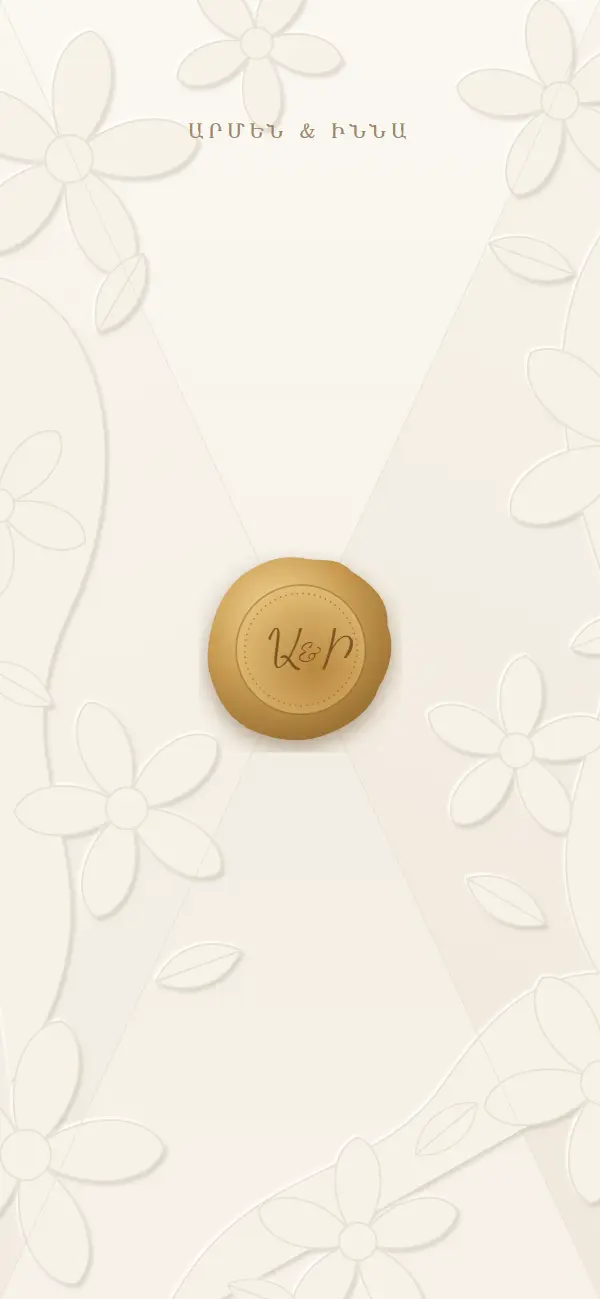
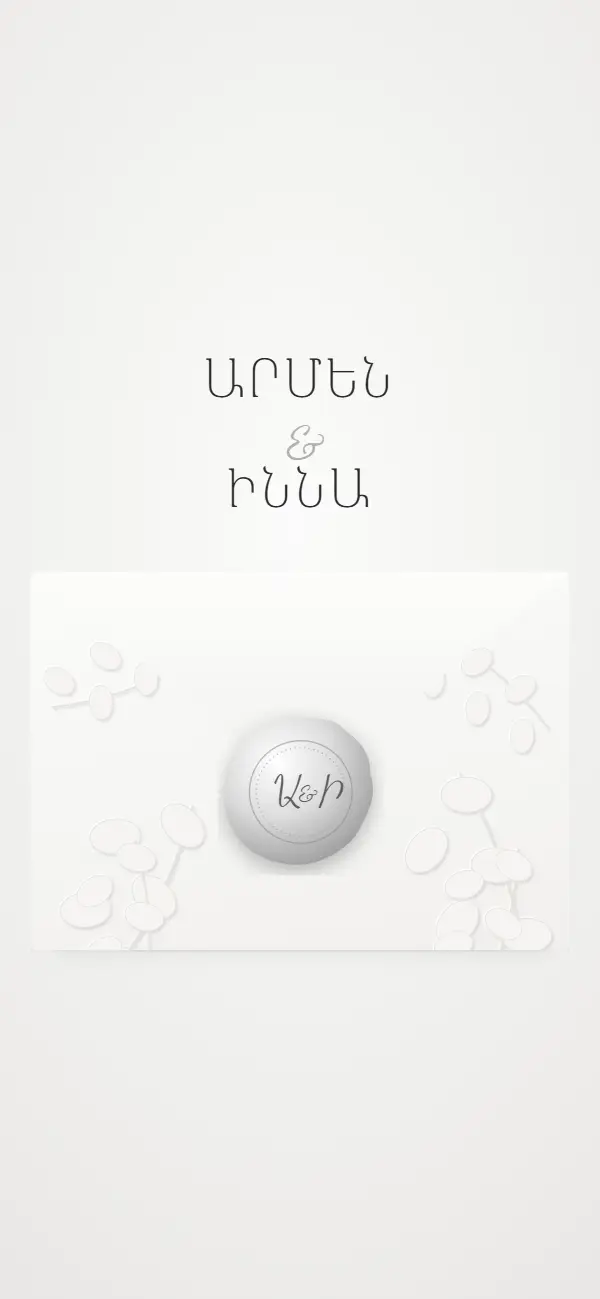
Elegance: its own classic envelope with silver seal

diff --git a/hravirir/invites/elegance/app.js b/hravirir/invites/elegance/app.js
@@ -11,7 +11,24 @@
       until: "Until the wedding", untilT: "there is very little", untilS: "time left", where: "Where?", at: "at", open: "Open map" }
   });
   function oval(src, cls) { return src ? '<div class="ov ' + (cls || "") + ' rv"><img src="' + esc(src) + '" alt="" loading="lazy"></div>' : ""; }
-  function env() { var n = K.names(); return P.wenv({ letters: [(n[0] || "").charAt(0), (n[1] || "").charAt(0)], hint: P.x("hint"), top: esc(n.join(" & ")) }); }
+  // դասական սպիտակ ծրար՝ էվկալիպտի դաջվածքով և արծաթափայլ կնիքով. կափարիչը բացվում է, բացիկը դուրս է գալիս
+  function euc(x, y, s, r) {
+    var p = '<g transform="translate(' + x + " " + y + ") rotate(" + r + ") scale(" + s + ')"><path class="st" d="M0 0C6 -14 10 -30 8 -50"/>';
+    for (var i = 0; i < 6; i++) { var yy = -6 - i * 8, sd = i % 2 ? 1 : -1; p += '<ellipse cx="' + (sd * 6 + i * .3).toFixed(1) + '" cy="' + yy + '" rx="5.2" ry="3.6" transform="rotate(' + (sd * 25) + " " + (sd * 6) + " " + yy + ')"/>'; }
+    return p + "</g>";
+  }
+  function env() {
+    var n = K.names(), L = [(n[0] || "").charAt(0), (n[1] || "").charAt(0)];
+    var art = '<svg class="ce-art" viewBox="0 0 100 100" preserveAspectRatio="xMidYMid slice" aria-hidden="true"><defs><filter id="ceE"><feDropShadow dx=".25" dy=".35" stdDeviation=".2" flood-color="#6b6b6b" flood-opacity=".25"/><feDropShadow dx="-.2" dy="-.2" stdDeviation=".15" flood-color="#fff" flood-opacity="1"/></filter></defs>' +
+      '<g filter="url(#ceE)" fill="#f5f4f1" stroke="#e4e2dd" stroke-width=".2">' + euc(8, 98, .9, 20) + euc(20, 100, .7, -10) + euc(92, 96, .9, -25) + euc(80, 100, .7, 8) + euc(4, 40, .6, 60) + euc(96, 44, .6, -60) + "</g></svg>";
+    var seal = '<svg class="ce-seal" viewBox="0 0 120 120" aria-hidden="true"><defs><radialGradient id="ceG" cx=".35" cy=".3" r=".85"><stop offset="0" stop-color="#ffffff"/><stop offset=".45" stop-color="#dcdcdc"/><stop offset=".8" stop-color="#a9a9a9"/><stop offset="1" stop-color="#8c8c8c"/></radialGradient></defs>' +
+      '<path d="M60 6C72 8 82 5 91 15C102 22 111 33 110 47C115 59 110 73 104 83C99 96 87 104 75 109C62 114 49 113 37 109C24 104 14 95 9 82C3 69 6 54 9 42C14 28 23 17 36 11C44 7 52 5 60 6Z" fill="url(#ceG)" filter="drop-shadow(0 5px 7px rgba(60,60,60,.35))"/>' +
+      '<circle cx="60" cy="60" r="37" fill="none" stroke="#8a8a8a" stroke-opacity=".55"/><circle cx="60" cy="60" r="32" fill="none" stroke="#8a8a8a" stroke-opacity=".45" stroke-dasharray="1 2.4"/>' +
+      '<text x="60" y="70" text-anchor="middle" font-size="31" fill="#5c5c5c" style="font-family:var(--script)">' + esc(L[0]) + '<tspan font-size="17" dx="1" dy="-3">&amp;</tspan><tspan dx="1" dy="3">' + esc(L[1]) + "</tspan></text></svg>";
+    return '<div class="env cenv" id="env" role="button" aria-label="' + esc(P.x("hint")) + '"><div class="ce-top"><span>' + esc(n[0] || "") + '</span><i>&amp;</i><span>' + esc(n[1] || "") + '</span></div><div class="ce-box"><div class="ce-back"></div>' +
+      '<div class="ce-card"><div class="ce-k">' + esc(P.x("inv1")) + '</div><div class="ce-n">' + esc(n[0] || "") + '<i>&amp;</i>' + esc(n[1] || "") + '</div><div class="ce-d">' + P.dots(" · ") + "</div></div>" +
+      '<div class="ce-pocket">' + art + '</div><div class="ce-flap"></div><div class="ce-sw">' + seal + "</div></div>" + (K.PREVIEW ? "" : '<div class="hint">' + esc(P.x("hint")) + "</div>") + "</div>";
+  }
   function main() {
     var n = K.names(), d = K.date, g = C.gallery || [];
     var yy = String(d.getFullYear()).slice(2);
@@ -34,5 +51,5 @@
       P.sec("rsv", P.rsvp("cap")) +
       P.sec("fin", '<div class="scr rv">' + esc(P.x("fin")) + '</div><div class="fnm rv">' + esc(n.join(" & ")) + "</div>") + P.made();
   }
-  P.run({ env: env, main: main, steps: P.wenvSteps, done: P.wenvDone });
+  P.run({ env: env, main: main, steps: [[0, "s1"], [450, "s2"], [1300, "s3"], [2500, "s4"]], done: 3100 });
 })();

diff --git a/hravirir/invites/elegance/style.css b/hravirir/invites/elegance/style.css
@@ -50,3 +50,33 @@
 .btn.fill { background: #333; border-color: #333; color: #fff; }
 .rsv .rs { border: 1px solid var(--line); box-shadow: none; }
 .fnm { font: 200 clamp(32px, 9.4vw, 42px)/1.2 var(--thin); letter-spacing: .06em; text-transform: uppercase; margin-top: 8px; }
+
+/* ---------- դասական ծրար (տարբերվում է «Հուշեր»-ի X-աձև ծրարից) ---------- */
+.cenv { background: radial-gradient(90% 70% at 50% 40%, #fbfbfa, #e9e8e5); display: grid; place-items: center; perspective: 1400px; transition: opacity .7s; }
+.ce-box { position: relative; width: min(84vw, 360px); aspect-ratio: 1.42; }
+.ce-back { position: absolute; inset: 0; border-radius: 4px; background: #e6e5e1; }
+.ce-card { position: absolute; left: 5%; right: 5%; top: 6%; height: 92%; background: #fff; border-radius: 3px; box-shadow: 0 4px 14px rgba(0,0,0,.08); display: flex; flex-direction: column; align-items: center; justify-content: center; text-align: center; z-index: 1; transition: transform 1.2s cubic-bezier(.3,1.1,.4,1); }
+.ce-k { font-size: 11px; letter-spacing: .26em; text-transform: uppercase; color: #8a8885; }
+.ce-n { font: 200 clamp(26px, 7.6vw, 34px)/1.1 var(--thin); letter-spacing: .06em; text-transform: uppercase; color: #2b2b2b; margin: 10px 0 8px; }
+.ce-n i { display: block; font: 400 .9em var(--script); color: #a9a7a3; text-transform: none; }
+.ce-d { font-size: 13px; letter-spacing: .3em; color: #6e6c69; }
+.ce-pocket { position: absolute; inset: 0; z-index: 2; border-radius: 4px; overflow: hidden; background: linear-gradient(170deg, #fbfbfa, #f1f0ed); clip-path: polygon(0 0, 50% 52%, 100% 0, 100% 100%, 0 100%); box-shadow: 0 30px 50px -30px rgba(0,0,0,.45); }
+.ce-art { position: absolute; inset: 0; width: 100%; height: 100%; }
+.ce-flap { position: absolute; left: 0; right: 0; top: 0; height: 58%; z-index: 3; background: linear-gradient(180deg, #fdfdfc, #f2f1ee); clip-path: polygon(0 0, 100% 0, 50% 100%); transform-origin: top; transition: transform 1s cubic-bezier(.5,0,.3,1), z-index 0s .5s; filter: drop-shadow(0 3px 3px rgba(0,0,0,.15)); }
+.ce-sw { position: absolute; left: 50%; top: 58%; width: 84px; transform: translate(-50%, -50%); z-index: 4; transition: transform .7s cubic-bezier(.5,-.4,.4,1), opacity .5s .15s; }
+.ce-seal { width: 100%; height: auto; display: block; }
+.cenv .hint { color: #8a8885; }
+.cenv.s1 .ce-sw { transform: translate(-50%, -80%) scale(1.25) rotate(-16deg); opacity: 0; }
+.cenv.s1 .hint { opacity: 0; animation: none; }
+.cenv.s2 .ce-flap { transform: rotateX(180deg); z-index: 0; }
+.cenv.s3 .ce-card { transform: translateY(-62%); z-index: 3; }
+.cenv.s4 { opacity: 0; }
+.ce-art .st { fill: none; stroke-width: .6; }
+/* ծրարը մեծ, վերևում՝ անունները */
+.cenv { display: flex; flex-direction: column; align-items: center; justify-content: center; gap: 34px; }
+.ce-box { width: min(90vw, 400px); }
+.ce-sw { width: 104px; }
+.ce-top { text-align: center; font: 200 clamp(30px, 9vw, 40px)/1.05 var(--thin); letter-spacing: .08em; text-transform: uppercase; color: #2b2b2b; transition: opacity .5s; }
+.ce-top span { display: block; }
+.ce-top i { display: block; font: 400 .9em/1 var(--script); color: #b3b1ad; text-transform: none; font-style: normal; margin: 2px 0; }
+.cenv.s1 .ce-top { opacity: 0; }
